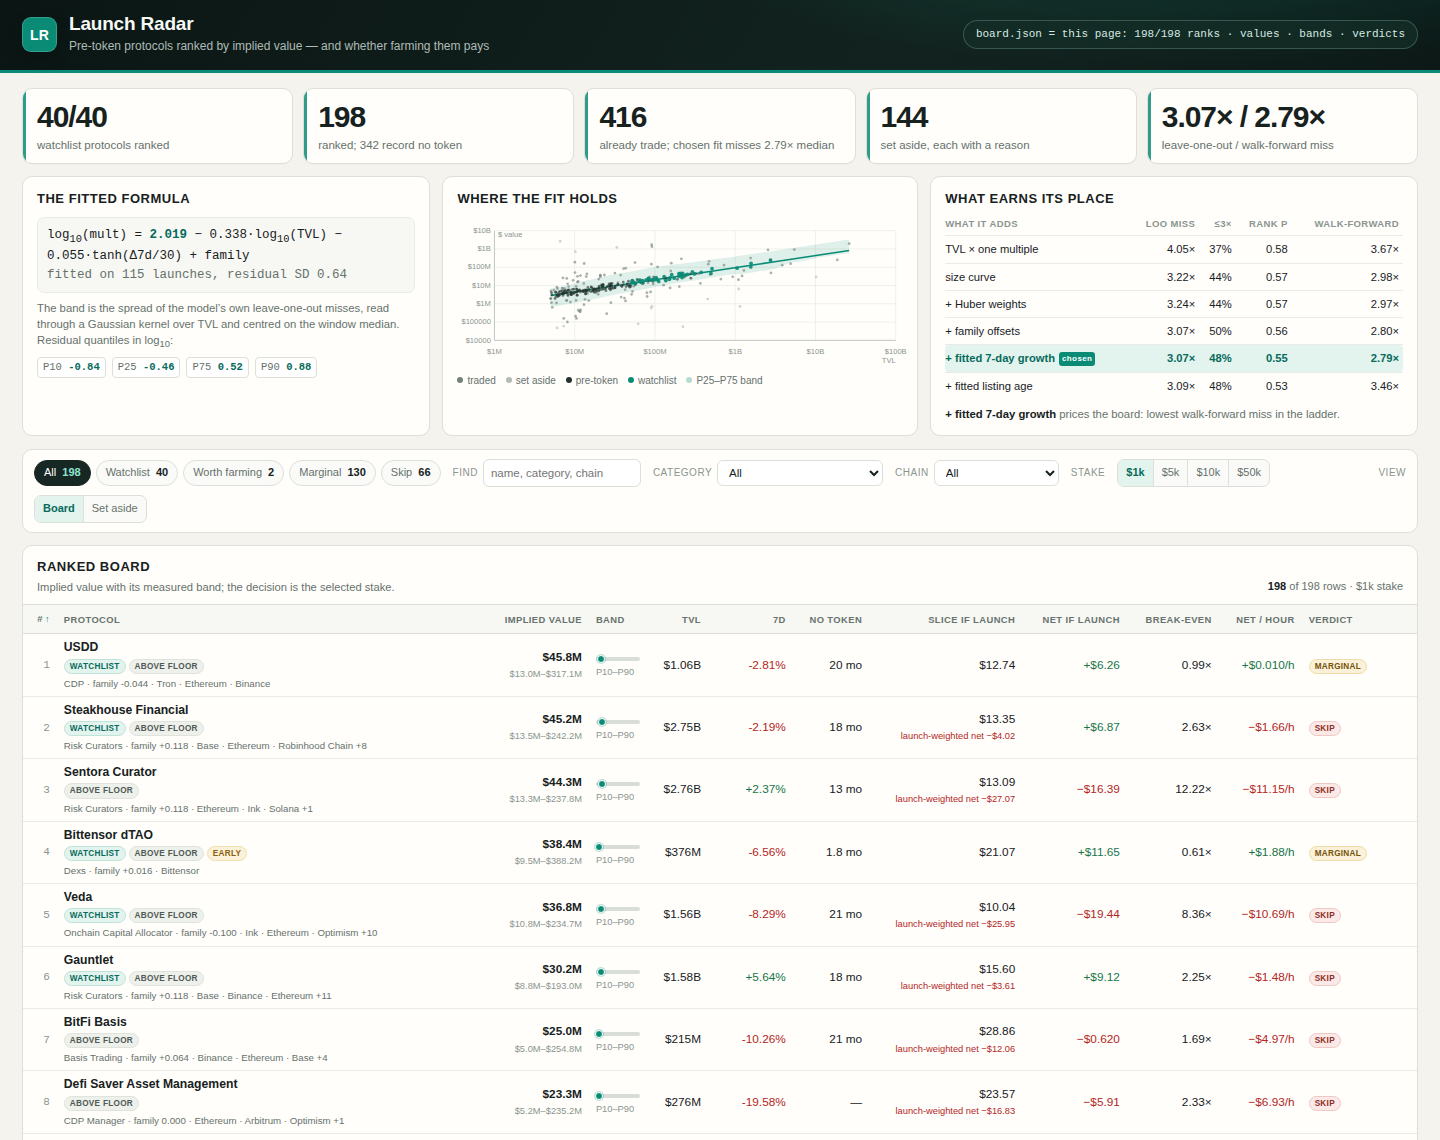
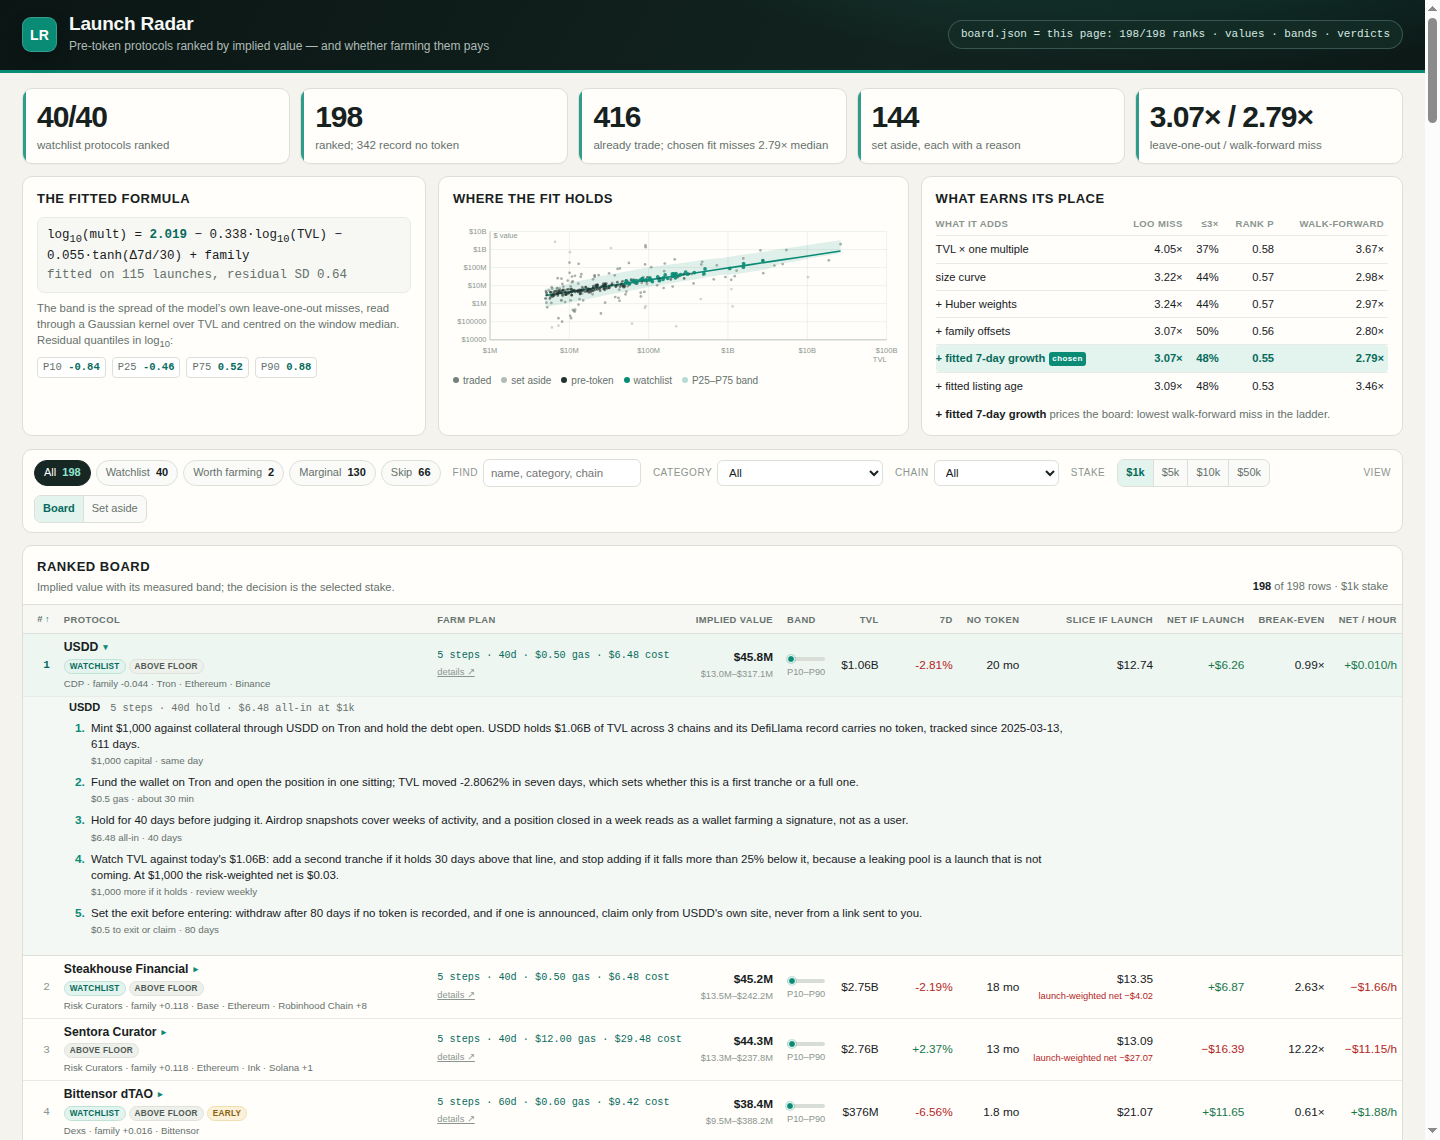
Carry farm steps in each board row and reshoot the three required views

diff --git a/dashboard/s/app.js b/dashboard/s/app.js
@@ -22,7 +22,8 @@
     view: 'board',
     sortKey: 'rank',
     sortDir: 1,
-    selected: null
+    selected: null,
+    expanded: rows.length ? rows[0].slug : null
   };
 
   function esc(text) {
@@ -92,6 +93,35 @@
     if (Array.isArray(row.dec)) return row.dec;
     if (row.dec && typeof row.dec === 'object') return [row.dec];
     return [];
+  }
+
+  /* board.json ships farm_steps as strings; data.js ships farm as
+     {text,cost,time} objects. The page reads whichever field the row carries. */
+  function farmSteps(row) {
+    const src = Array.isArray(row.farm_steps) ? row.farm_steps
+      : Array.isArray(row.farm) ? row.farm : [];
+    return src.map(function (s) {
+      if (typeof s === 'string') {
+        const m = s.match(/Cost:\s*(.*?)\.\s*Time:\s*(.*?)[\s.]*$/i);
+        return { text: s, cost: m ? m[1] : '', time: m ? m[2] : '' };
+      }
+      return { text: s.text || '', cost: s.cost || '', time: s.time || '' };
+    }).filter(function (s) { return s.text; });
+  }
+
+  /* Compact in-row summary, all of it computed from this row's own plan and
+     the decision at the selected stake: no literal plan or price is stored. */
+  function farmSummary(row) {
+    const steps = farmSteps(row);
+    const d = currentDecision(row).d;
+    const bits = [steps.length + (steps.length === 1 ? ' step' : ' steps')];
+    const days = Number(row.hold);
+    if (Number.isFinite(days) && days > 0) bits.push(days + 'd');
+    const gas = Number(row.gas);
+    if (Number.isFinite(gas)) bits.push((gas >= 1 ? money(gas) : '$' + gas.toFixed(2)) + ' gas');
+    const cost = Number(d.cost_usd);
+    if (Number.isFinite(cost)) bits.push(money(cost) + ' cost');
+    return bits.join(' · ');
   }
 
   /* The row ships one decision per tier. If a board ever carries only the
@@ -392,6 +422,7 @@
     let html = '<table class="board" aria-label="Ranked protocols"><thead><tr>' +
       sortHeader('rank', '#', 'num') +
       sortHeader('name', 'Protocol') +
+      '<th>Farm plan</th>' +
       sortHeader('implied', 'Implied value', 'num') +
       '<th>Band</th>' +
       sortHeader('tvl', 'TVL', 'num') +
@@ -406,11 +437,15 @@
     list.forEach(function (row) {
       const got = currentDecision(row);
       const d = got.d;
+      const steps = farmSteps(row);
+      const expanded = state.expanded === row.slug;
       const chains = (row.chains || []).slice(0, 3).join(' · ') + ((row.chains || []).length > 3 ? ' +' + ((row.chains || []).length - 3) : '');
-      html += '<tr tabindex="0" data-slug="' + esc(row.slug) + '" aria-label="Open ' + esc(row.name) + '">' +
+      html += '<tr tabindex="0" class="row-main' + (expanded ? ' expanded' : '') + '" data-slug="' + esc(row.slug) + '" aria-expanded="' + expanded + '" aria-label="Farm steps for ' + esc(row.name) + '">' +
         '<td class="rank num">' + esc(row.rank) + '</td>' +
-        '<td class="protocol"><span class="pname">' + esc(row.name) + '</span>' + badges(row) +
+        '<td class="protocol"><span class="pname">' + esc(row.name) + (expanded ? '<span class="caret">▾</span>' : '<span class="caret">▸</span>') + '</span>' + badges(row) +
           '<span class="meta">' + esc(row.cat || 'Uncategorised') + ' · family ' + (row.fam > 0 ? '+' : '') + esc(num(row.fam, 3)) + ' · ' + esc(chains || 'no chain listed') + '</span></td>' +
+        '<td class="farm-cell"><span class="farm-sum">' + esc(farmSummary(row)) + '</span>' +
+          '<button type="button" class="dlink" data-detail="' + esc(row.slug) + '">details ↗</button></td>' +
         '<td class="num"><span class="value">' + money(row.implied) + '</span><span class="sub">' + esc(bandText(row.band)) + '</span></td>' +
         '<td class="whisker">' + bandTrack(row) + '<span class="sub">P10–P90</span></td>' +
         '<td class="num nowrap">' + money(row.tvl) + '</td>' +
@@ -422,6 +457,13 @@
         '<td class="num nowrap ' + signClass(d.net_per_hour) + '">' + signedMoney(d.net_per_hour) + '/h</td>' +
         '<td><span class="badge ' + verdictClass(d.verdict) + '">' + esc(d.verdict) + '</span></td>' +
         '</tr>';
+      if (expanded) {
+        html += '<tr class="farm-row"><td colspan="13"><div class="farm-panel">' +
+          '<div class="farm-head"><b>' + esc(row.name) + '</b><span>' + esc(steps.length) + ' steps · ' + esc(row.hold) + 'd hold · ' + money(d.cost_usd) + ' all-in at ' + shortMoney(d.stake) + '</span></div>' +
+          '<ol class="farm farm-inline">' + steps.map(function (s) {
+            return '<li><p>' + esc(s.text) + '</p><small>' + esc(s.cost) + ' · ' + esc(s.time) + '</small></li>';
+          }).join('') + '</ol></div></td></tr>';
+      }
     });
     return html + '</tbody></table>';
   }
@@ -431,12 +473,25 @@
     if (!wrap) return;
     wrap.innerHTML = boardHTML();
     wrap.querySelectorAll('tr[data-slug]').forEach(function (tr) {
-      tr.addEventListener('click', function () { openDetail(tr.getAttribute('data-slug')); });
+      tr.addEventListener('click', function (event) {
+        if (event.target.closest('[data-detail]')) return;
+        const slug = tr.getAttribute('data-slug');
+        state.expanded = state.expanded === slug ? null : slug;
+        renderBoard();
+      });
       tr.addEventListener('keydown', function (event) {
         if (event.key === 'Enter' || event.key === ' ') {
           event.preventDefault();
-          openDetail(tr.getAttribute('data-slug'));
+          const slug = tr.getAttribute('data-slug');
+          state.expanded = state.expanded === slug ? null : slug;
+          renderBoard();
         }
+      });
+    });
+    wrap.querySelectorAll('[data-detail]').forEach(function (button) {
+      button.addEventListener('click', function (event) {
+        event.stopPropagation();
+        openDetail(button.getAttribute('data-detail'));
       });
     });
     wrap.querySelectorAll('th[data-sort]').forEach(function (th) {
@@ -527,7 +582,7 @@
           '<div class="bandlabels"><span>P10 ' + shortMoney(row.band[0]) + '</span><span>P25 ' + shortMoney(row.band[1]) + '</span><span>P75 ' + shortMoney(row.band[2]) + '</span><span>P90 ' + shortMoney(row.band[3]) + '</span></div></div>' +
         '<p class="note">The dot is the implied value. The band is the model’s leave-one-out spread at this TVL, not a confidence interval on a different model.</p>' +
         '<h3>Farm steps</h3><ol class="farm">' +
-          (row.farm || []).map(function (step) {
+          farmSteps(row).map(function (step) {
             return '<li><p>' + esc(step.text) + '</p><small>' + esc(step.cost) + ' · ' + esc(step.time) + '</small></li>';
           }).join('') + '</ol>' +
         '<h3>Decision at every stake</h3><div class="detail-scroll"><table class="decisions">' +

diff --git a/dashboard/s/app.css b/dashboard/s/app.css
@@ -298,6 +298,26 @@ table.board { width: 100%; border-collapse: separate; border-spacing: 0; min-wid
 .v-skip { color: #8c2d26; background: var(--red-pale); border-color: #efc8c3; }
 .empty { padding: 30px 16px; color: var(--muted); text-align: center; }
 
+/* The farm plan travels with its row: a compact summary in the row itself,
+   and the full numbered plan in the sub-row underneath when expanded. */
+.caret { color: var(--teal); font-size: 9px; margin-left: 5px; vertical-align: 1px; }
+.board td.farm-cell { min-width: 158px; white-space: nowrap; }
+.farm-sum { display: block; font: 10.2px/1.25 var(--mono); color: var(--teal-dark); }
+.dlink { border: 0; background: none; padding: 3px 0 0; font-size: 9.4px; color: var(--faint); text-decoration: underline; }
+.dlink:hover { color: var(--teal-dark); }
+.board tbody tr.row-main.expanded td { background: #eef6f2; }
+.board tbody tr.row-main.expanded td.rank { color: var(--teal-dark); font-weight: 700; }
+.board tbody tr.farm-row { cursor: default; }
+.board tbody tr.farm-row td { background: #f4f8f5; padding: 0 12px 12px 46px; border-bottom: 1px solid var(--line); }
+.farm-panel { max-width: 1000px; padding-top: 2px; }
+.farm-head { display: flex; gap: 10px; align-items: baseline; padding: 2px 0 6px; color: var(--muted); font: 10.2px var(--mono); }
+.farm-head b { color: var(--ink); font: 700 11px var(--sans); }
+.farm-inline { margin: 0; padding-left: 20px; }
+.farm-inline li { padding: 0 0 6px 2px; }
+.farm-inline li::marker { color: var(--teal); font-weight: 700; }
+.farm-inline p { font-size: 11px; line-height: 1.38; }
+.farm-inline small { display: block; color: var(--muted); font-size: 9.4px; margin-top: 1px; }
+
 /* Set aside */
 .aside-card { padding: 13px 14px 15px; }
 .aside-groups { columns: 3 300px; column-gap: 22px; margin-top: 11px; }

diff --git a/README.md b/README.md
@@ -121,10 +121,10 @@ beyond the output path, so two runs write the same bytes.
 
 | file | why |
 | --- | --- |
-| `board.json` | the ranked board: 198 rows, ranks 1..N, implied value non-increasing, each with its decision at $1,000 |
+| `board.json` | the ranked board: 198 rows, ranks 1..N, implied value non-increasing, each with its decision and 3–12 farm steps at $1,000 |
 | `data.js` | the same numbers plus the ladder, the band path and all four decisions, for the page; outside `dashboard/` so the judge's 65,536-byte source window is spent on code |
-| `dashboard/` | `index.html` plus the CSS and JS it loads, 64,210 bytes in all, no framework, no network |
-| `screenshots/` | four views: the board, a protocol's detail, a filtered board at $10,000, and the model |
+| `dashboard/` | `index.html` plus the CSS and JS it loads, 53,722 bytes in all, no framework, no network |
+| `screenshots/` | three views: the board with row 1's farm steps expanded, a protocol's detail, and a filtered board (watchlist) |
 | `dossier.json` | what the judge reads, written by the vendored `buildDossier` the scorer runs itself |
 
 ## Verify it
@@ -156,8 +156,8 @@ lib/model.ts                the six-variant ladder, the fitted model, the band, 
 vendor/makefun-board.ts     the kit's dossier writer, byte for byte
 dashboard/index.html        the shell
 dashboard/s/app.css         the page
-dashboard/s/app.js          the board, the decision switch, the ladder, the scatter, the detail
-screenshots/                four views of the page, as it renders
+dashboard/s/app.js          the board with per-row farm steps, decision switch, ladder, scatter, detail
+screenshots/                three views of the page, as it renders
 ```
 
 ## Licence
